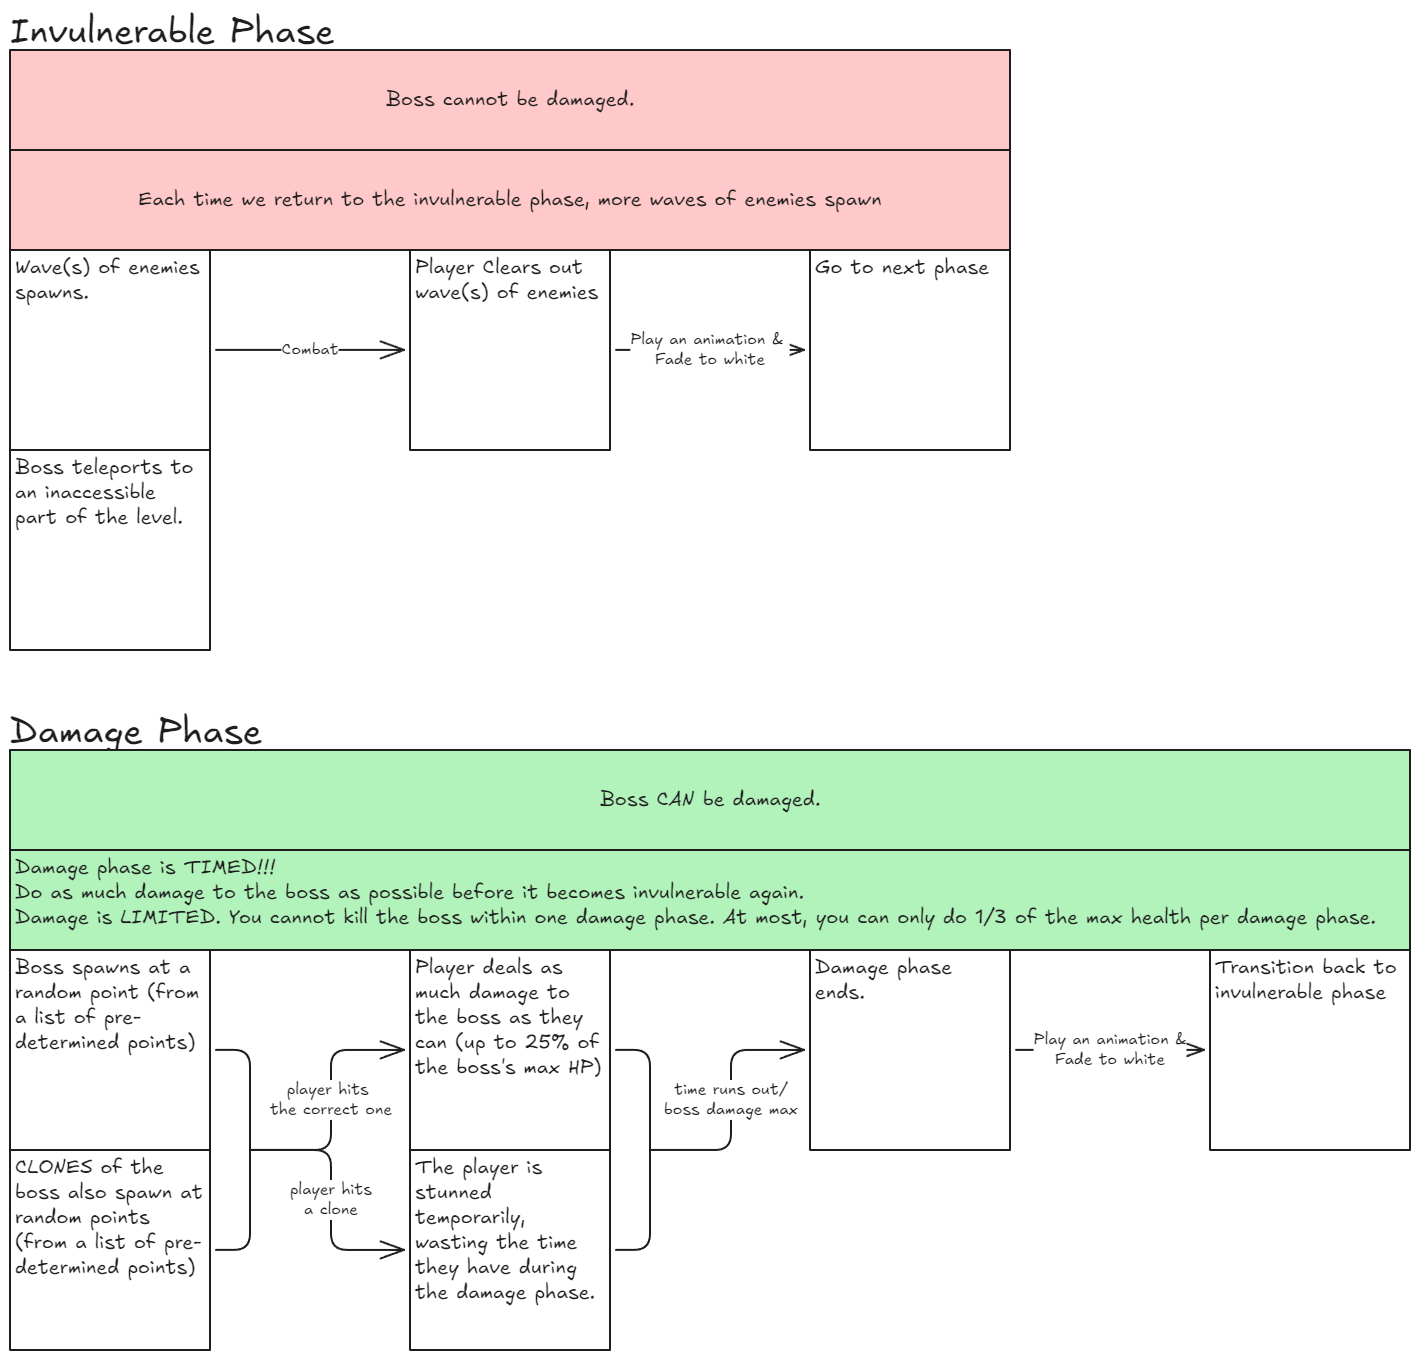
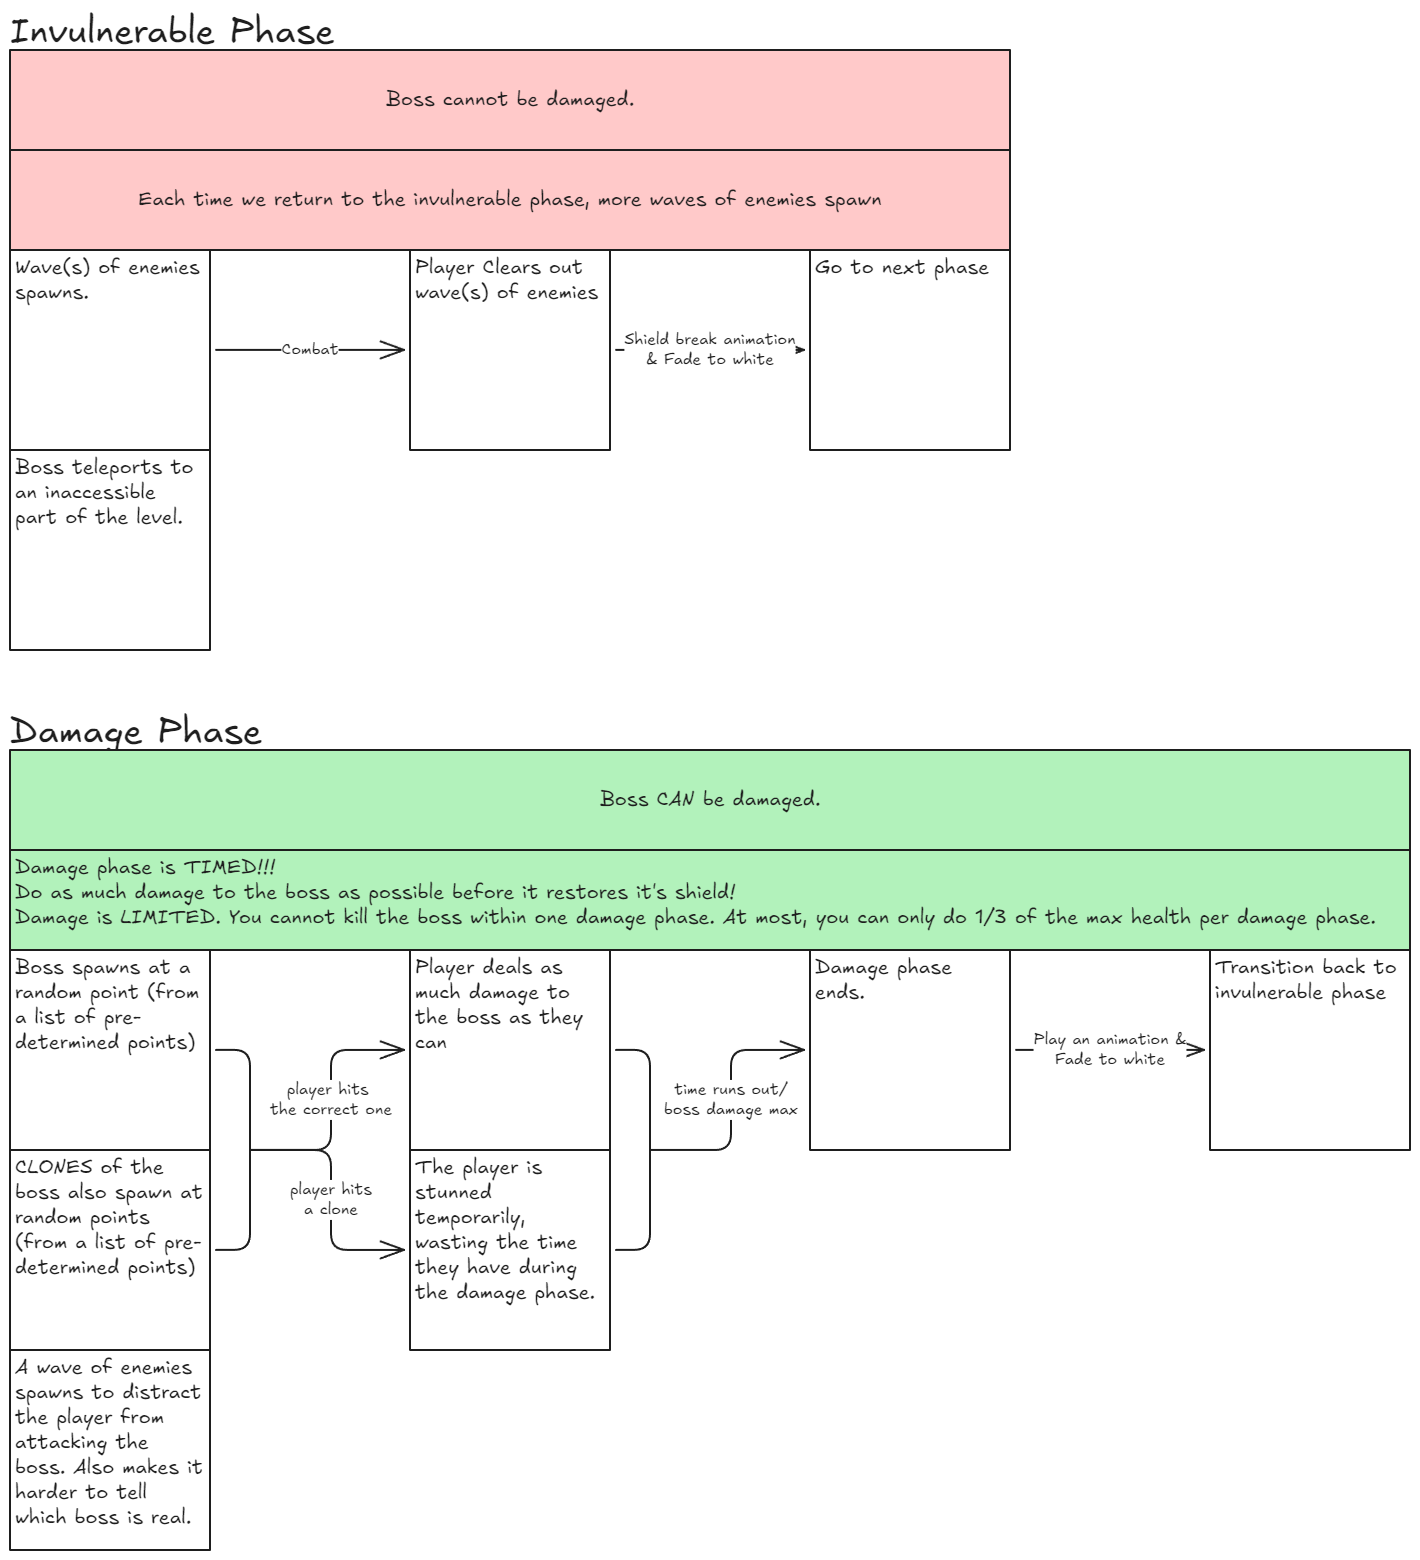
vault backup: 2026-06-24 12:39:53

diff --git a/Projects/Summer Project/Mechanics/Boss03/Boss03 Graph.md b/Projects/Summer Project/Mechanics/Boss03/Boss03 Graph.md
@@ -24,8 +24,8 @@ Go to next phase ^Iu1ifxJd
 
 Combat ^u9UtIjFs
 
-Play an animation & 
-Fade to white ^U1JmJdOw
+Shield break animation 
+& Fade to white ^U1JmJdOw
 
 Damage Phase ^J4kmwQmB
 
@@ -35,12 +35,12 @@ Boss spawns at a random point (from a list of pre-determined points) ^DFLK058q
 
 CLONES of the boss also spawn at random points (from a list of pre-determined points) ^pTj7ydsf
 
-Player deals as much damage to the boss as they can (up to 25% of the boss's max HP) ^SMTdboUh
+Player deals as much damage to the boss as they can ^SMTdboUh
 
 The player is stunned temporarily, wasting the time they have during the damage phase. ^VSAD5s6J
 
 Damage phase is TIMED!!!
-Do as much damage to the boss as possible before it becomes invulnerable again.
+Do as much damage to the boss as possible before it restores it's shield!
 Damage is LIMITED. You cannot kill the boss within one damage phase. At most, you can only do 1/3 of the max health per damage phase. ^v8e94oZU
 
 player hits 
@@ -61,6 +61,8 @@ boss damage max ^od2301VO
 Play an animation & Fade to white ^N9Xmqofg
 
 Each time we return to the invulnerable phase, more waves of enemies spawn ^EG3TEgSV
+
+A wave of enemies spawns to distract the player from attacking the boss. Also makes it harder to tell which boss is real. ^kk3XKSjN
 
 %%
 ## Drawing
@@ -105,112 +107,116 @@ OsZsnDLtes+Vgi2VyghAERWgoBpQAArWoHIDFe7eEoPVtR+PFK2UKUcrYLcBlbI3Ihc/IuANgPUWE+5Y
 
[1 lines of base64/hex data omitted]
 
[2 lines of base64/hex data omitted]
 
[2 lines of base64/hex data omitted]
 
[2 lines of base64/hex data omitted]
 
[2 lines of base64/hex data omitted]
 
[2 lines of base64/hex data omitted]
 
[2 lines of base64/hex data omitted]
 
[2 lines of base64/hex data omitted]
 
[2 lines of base64/hex data omitted]
 
[2 lines of base64/hex data omitted]
 
[2 lines of base64/hex data omitted]
 
[2 lines of base64/hex data omitted]
 
[2 lines of base64/hex data omitted]
 
[2 lines of base64/hex data omitted]
 
[2 lines of base64/hex data omitted]
 
[2 lines of base64/hex data omitted]
 
[2 lines of base64/hex data omitted]
 
[2 lines of base64/hex data omitted]
 
[2 lines of base64/hex data omitted]
 
[2 lines of base64/hex data omitted]
 
[2 lines of base64/hex data omitted]
 
[2 lines of base64/hex data omitted]
 
[2 lines of base64/hex data omitted]
 
[2 lines of base64/hex data omitted]
 
[2 lines of base64/hex data omitted]
 
[2 lines of base64/hex data omitted]
 
[2 lines of base64/hex data omitted]
 
[2 lines of base64/hex data omitted]
 
[2 lines of base64/hex data omitted]
 
[2 lines of base64/hex data omitted]
 
[2 lines of base64/hex data omitted]
 
[2 lines of base64/hex data omitted]
 
[2 lines of base64/hex data omitted]
 
[2 lines of base64/hex data omitted]
 
[2 lines of base64/hex data omitted]
 
[2 lines of base64/hex data omitted]
 
[2 lines of base64/hex data omitted]
 
[2 lines of base64/hex data omitted]
 
[2 lines of base64/hex data omitted]
 
[2 lines of base64/hex data omitted]
 
[2 lines of base64/hex data omitted]
 
[2 lines of base64/hex data omitted]
 
[2 lines of base64/hex data omitted]
 
[2 lines of base64/hex data omitted]
 
[2 lines of base64/hex data omitted]
 
[2 lines of base64/hex data omitted]
 
[2 lines of base64/hex data omitted]
 
[2 lines of base64/hex data omitted]
 
[2 lines of base64/hex data omitted]
 
[2 lines of base64/hex data omitted]
 
[2 lines of base64/hex data omitted]
 
[2 lines of base64/hex data omitted]
 
[2 lines of base64/hex data omitted]
 
[2 lines of base64/hex data omitted]
 
[2 lines of base64/hex data omitted]
+
[1 lines of base64/hex data omitted]
+
[1 lines of base64/hex data omitted]
 ```
 %%
